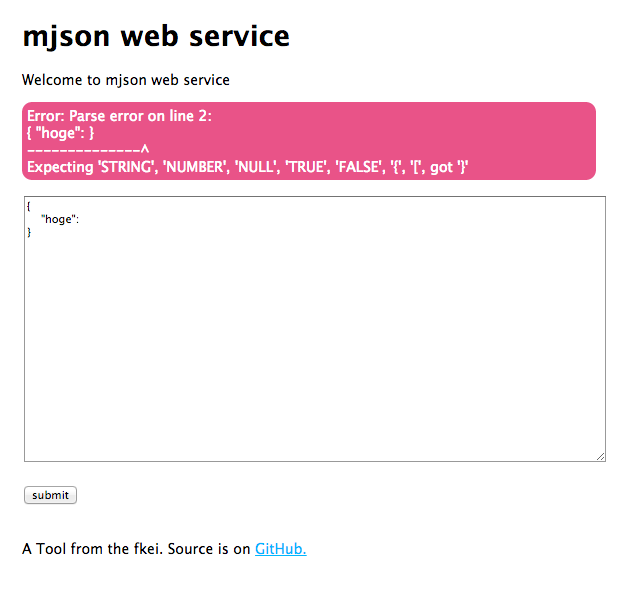
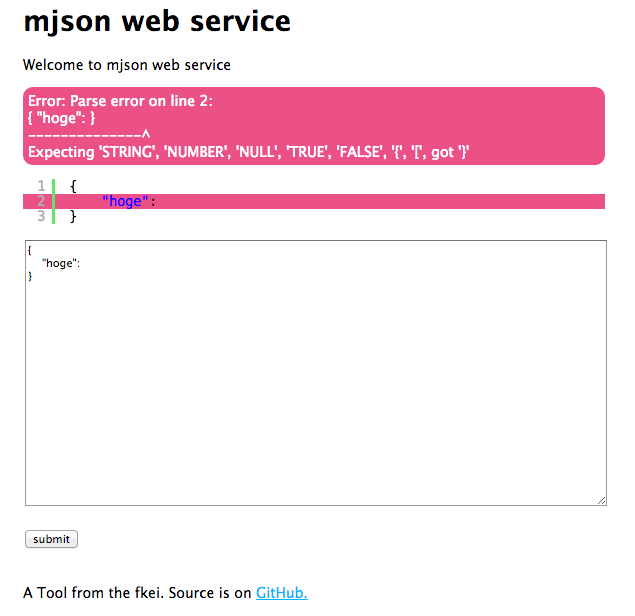
Change: change README

diff --git a/README.md b/README.md
@@ -7,14 +7,14 @@ You can run the mjson via a browser.
 
 - Output a formatted neatly JSON.
 - Eliminates comments in JSON using JSON.minify.
-- For JSON parse error, and an error of jsonlint.
+- When JSON parse error occur, show error message of jsonlint and syntaxhighlight.
 
 
 # install
 
 ```sh
-$ npm install mjson-server -g 
-$ mjson-server 
+$ npm install mjson-server -g
+$ mjson-server
 Express server listening on port 3000
 
 Browser access: http://0.0.0.0:3000/
@@ -27,12 +27,12 @@ Browser access: http://0.0.0.0:3000/
 ![error](screenshots/error.png)
 
 
-# source install 
+# source install
 
 ```sh
 $ git checkout https://github.com/fkei/mjson-server.git
 $ cd mjson-server
-$ npm install . 
+$ npm install .
 $ node app
 Express server listening on port 3000
 
